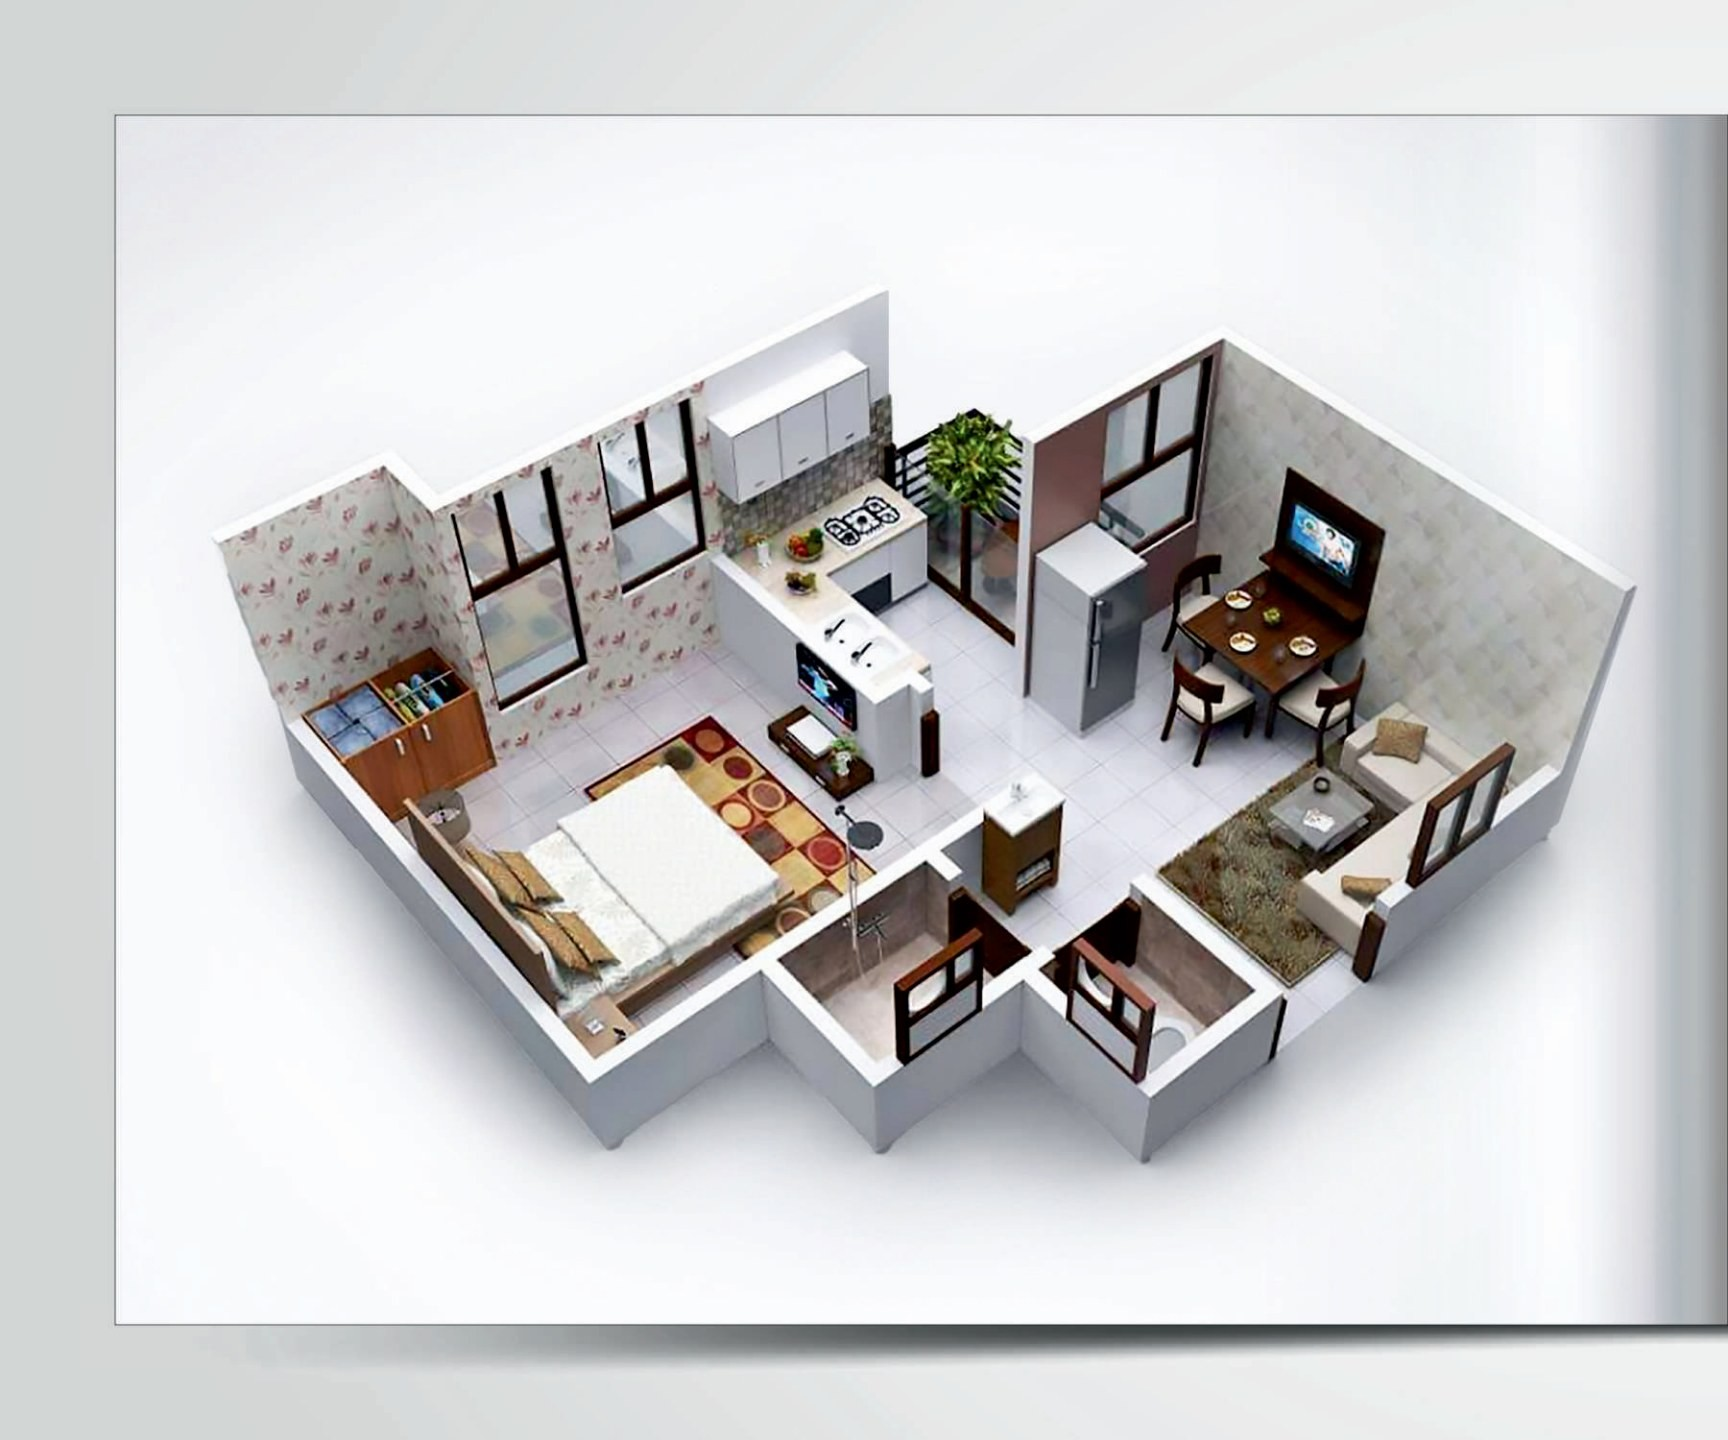
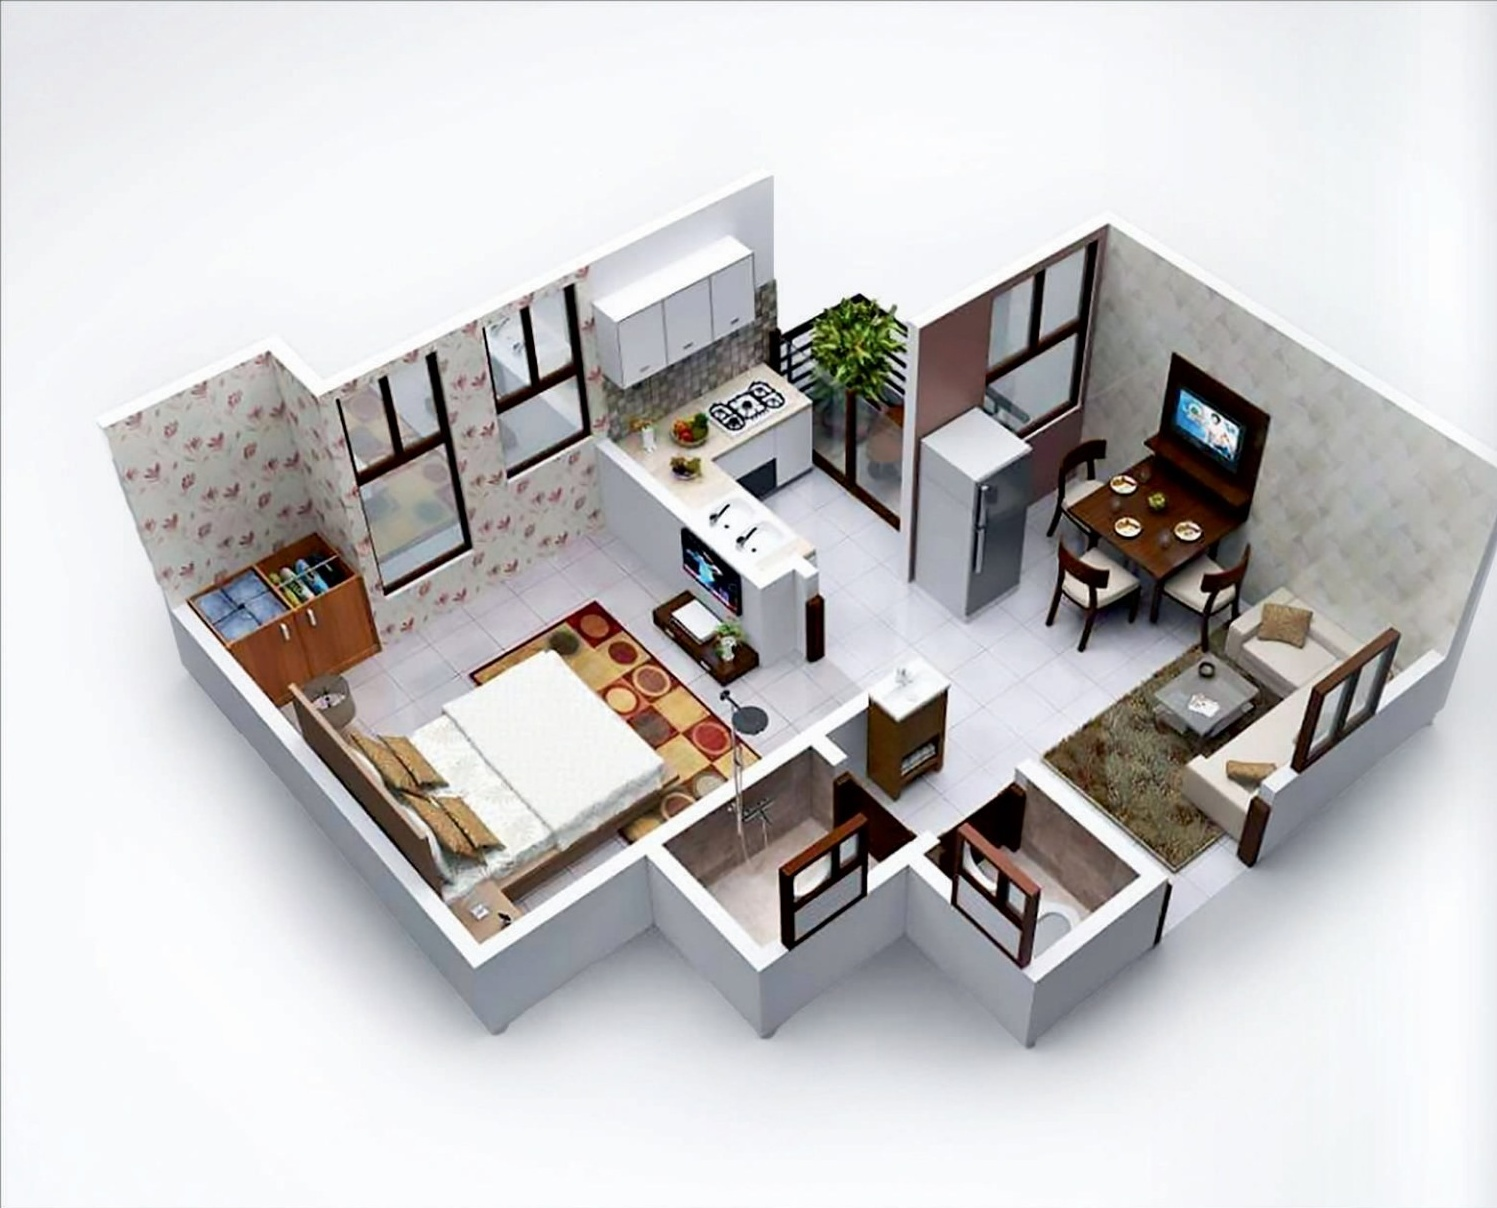
Optimize unit plans layout: normal compact size, clean white background, balanced side-by-side grid, and cropped floor plan artwork

diff --git a/src/pages/FloorPlans.tsx b/src/pages/FloorPlans.tsx
@@ -604,48 +604,48 @@ export const FloorPlans: React.FC = () => {
       </section>
 
       {/* Detailed Unit Plans: 3D Isometric + 2D Floor Plans from Brochure */}
-      <section className="py-14 sm:py-20 bg-white border-b border-[#CCE2D2]">
+      <section className="py-10 sm:py-14 bg-white border-b border-[#CCE2D2]">
         <div className="max-w-6xl mx-auto px-4 sm:px-6 lg:px-8">
-          <div className="text-center max-w-2xl mx-auto mb-12">
-            <span className="inline-flex items-center gap-1.5 px-3.5 py-1.5 rounded-full bg-emerald-100 text-emerald-800 text-xs font-bold uppercase tracking-wider border border-emerald-300 mb-2">
+          <div className="text-center max-w-2xl mx-auto mb-8 sm:mb-10">
+            <span className="inline-flex items-center gap-1.5 px-3 py-1 rounded-full bg-emerald-100 text-emerald-800 text-[11px] font-bold uppercase tracking-wider border border-emerald-300 mb-2">
               <Layers className="w-3.5 h-3.5" />
               <span>Brochure Verified Unit Plans</span>
             </span>
-            <h2 className="text-2xl sm:text-3xl md:text-4xl font-black text-[#8C6514] tracking-tight">
+            <h2 className="text-2xl sm:text-3xl font-black text-[#8C6514] tracking-tight">
               1, 2 &amp; 3 BHK Architectural Layouts
             </h2>
-            <p className="text-slate-600 text-sm mt-2">
-              Authentic unit plans extracted directly from the official DEEPPURA BUILDERS brochure, complete with 3D furnished isometric previews and exact 2D room measurements.
+            <p className="text-slate-600 text-xs sm:text-sm mt-1.5">
+              Official unit layouts with compact 3D furnished isometric previews and exact 2D measurements.
             </p>
           </div>
 
-          <div className="space-y-12">
+          <div className="space-y-6 sm:space-y-8">
             {officialBrochurePlans.map((plan, idx) => {
-              const spreadIndex = idx + 2; // spreads 3, 4, 5, 6, 7 (indices 2, 3, 4, 5, 6)
+              const spreadIndex = idx + 2; // spreads 3, 4, 5, 6, 7
               return (
                 <motion.div
                   key={plan.id}
-                  initial={{ opacity: 0, y: 30 }}
+                  initial={{ opacity: 0, y: 20 }}
                   whileInView={{ opacity: 1, y: 0 }}
                   viewport={{ once: true }}
-                  transition={{ duration: 0.5 }}
-                  className="rounded-2xl sm:rounded-3xl bg-slate-50 border border-[#CCE2D2] hover:border-emerald-500/80 overflow-hidden shadow-md hover:shadow-xl transition-all duration-300 p-5 sm:p-7 md:p-8"
+                  transition={{ duration: 0.4 }}
+                  className="rounded-2xl bg-white border border-[#CCE2D2] hover:border-emerald-500/80 shadow-xs hover:shadow-md transition-all duration-300 p-4 sm:p-5 md:p-6"
                 >
                   {/* Plan Header */}
-                  <div className="flex flex-col sm:flex-row sm:items-center justify-between gap-3 pb-5 border-b border-[#CCE2D2]">
+                  <div className="flex flex-col sm:flex-row sm:items-center justify-between gap-2.5 pb-3 sm:pb-4 border-b border-[#CCE2D2]">
                     <div>
                       <div className="flex items-center gap-2 mb-1">
-                        <span className="px-3 py-1 rounded-full bg-emerald-600 text-white text-xs font-black uppercase tracking-wider">
+                        <span className="px-2.5 py-0.5 rounded-full bg-emerald-700 text-white text-[11px] font-black uppercase tracking-wider">
                           {plan.category}
                         </span>
-                        <span className="px-3 py-1 rounded-full bg-slate-200 text-slate-800 text-xs font-bold">
+                        <span className="px-2.5 py-0.5 rounded-full bg-slate-100 text-slate-800 text-[11px] font-bold border border-slate-200">
                           {plan.area}
                         </span>
                       </div>
-                      <h3 className="text-xl sm:text-2xl font-black text-[#8C6514]">
+                      <h3 className="text-lg sm:text-xl font-black text-[#8C6514]">
                         {plan.name}
                       </h3>
-                      <p className="text-xs sm:text-sm text-slate-600 mt-1 max-w-2xl">
+                      <p className="text-xs text-slate-600 mt-0.5 max-w-2xl">
                         {plan.description}
                       </p>
                     </div>
@@ -653,85 +653,85 @@ export const FloorPlans: React.FC = () => {
                     <div className="flex items-center gap-2 shrink-0">
                       <button
                         onClick={() => openBrochureAt(spreadIndex)}
-                        className="px-4 py-2 rounded-xl bg-white hover:bg-emerald-50 text-amber-800 border border-emerald-300 font-bold text-xs flex items-center gap-1.5 transition-all cursor-pointer shadow-xs"
+                        className="px-3.5 py-1.5 rounded-xl bg-slate-50 hover:bg-emerald-50 text-amber-800 border border-emerald-300 font-bold text-xs flex items-center gap-1.5 transition-all cursor-pointer shadow-2xs"
                       >
                         <BookOpen className="w-3.5 h-3.5" />
-                        <span>View Brochure Spread {spreadIndex + 1}</span>
+                        <span>Spread {spreadIndex + 1}</span>
                       </button>
                     </div>
                   </div>
 
-                  {/* Dual Grid: 3D Isometric View + 2D Blueprint */}
-                  <div className="grid grid-cols-1 lg:grid-cols-2 gap-6 pt-6">
-                    {/* Left: 3D Isometric Cutaway */}
-                    <div className="rounded-2xl bg-white border border-[#CCE2D2] overflow-hidden shadow-xs group">
-                      <div className="p-3 bg-slate-100/70 border-b border-[#CCE2D2] flex items-center justify-between">
+                  {/* Dual Grid: Normal Balanced 3D Isometric View + 2D Blueprint */}
+                  <div className="grid grid-cols-1 md:grid-cols-2 gap-4 pt-4">
+                    {/* Left: 3D Isometric View */}
+                    <div className="rounded-xl bg-slate-50/60 border border-[#CCE2D2] overflow-hidden group">
+                      <div className="px-3 py-1.5 bg-slate-100/70 border-b border-[#CCE2D2] flex items-center justify-between">
                         <span className="text-[11px] font-black uppercase tracking-wider text-emerald-800 flex items-center gap-1.5">
                           <Layers className="w-3.5 h-3.5 text-sky-600" />
                           <span>3D Furnished Isometric View</span>
                         </span>
                         <button
                           onClick={() => openLightbox(8 + idx)}
-                          className="text-[11px] font-bold text-slate-500 hover:text-amber-800 flex items-center gap-1 cursor-pointer"
+                          className="text-[10px] font-bold text-slate-500 hover:text-amber-800 flex items-center gap-1 cursor-pointer"
                         >
                           <Maximize2 className="w-3 h-3" />
                           <span>Expand</span>
                         </button>
                       </div>
                       <div 
-                        className="aspect-[4/3] p-4 bg-slate-950 flex items-center justify-center cursor-pointer overflow-hidden"
+                        className="h-48 sm:h-56 md:h-60 p-2 sm:p-3 bg-white flex items-center justify-center cursor-pointer overflow-hidden"
                         onClick={() => openLightbox(8 + idx)}
                       >
                         <img
                           src={plan.isoImage}
                           alt={`${plan.name} 3D Isometric Layout`}
-                          className="max-h-full max-w-full object-contain group-hover:scale-105 transition-transform duration-500 rounded-lg"
+                          className="max-h-full max-w-full object-contain group-hover:scale-103 transition-transform duration-300 rounded"
                           loading="lazy"
                         />
                       </div>
                     </div>
 
                     {/* Right: 2D Blueprint Layout */}
-                    <div className="rounded-2xl bg-white border border-[#CCE2D2] overflow-hidden shadow-xs group flex flex-col justify-between">
-                      <div className="p-3 bg-slate-100/70 border-b border-[#CCE2D2] flex items-center justify-between">
+                    <div className="rounded-xl bg-slate-50/60 border border-[#CCE2D2] overflow-hidden group">
+                      <div className="px-3 py-1.5 bg-slate-100/70 border-b border-[#CCE2D2] flex items-center justify-between">
                         <span className="text-[11px] font-black uppercase tracking-wider text-slate-800 flex items-center gap-1.5">
                           <FileText className="w-3.5 h-3.5 text-sky-600" />
                           <span>2D Architectural Layout &amp; Measurements</span>
                         </span>
                         <button
                           onClick={() => openLightbox(8 + officialBrochurePlans.length + idx)}
-                          className="text-[11px] font-bold text-slate-500 hover:text-amber-800 flex items-center gap-1 cursor-pointer"
+                          className="text-[10px] font-bold text-slate-500 hover:text-amber-800 flex items-center gap-1 cursor-pointer"
                         >
                           <Maximize2 className="w-3 h-3" />
                           <span>Expand</span>
                         </button>
                       </div>
                       <div 
-                        className="aspect-[4/3] p-4 bg-white flex items-center justify-center cursor-pointer overflow-hidden"
+                        className="h-48 sm:h-56 md:h-60 p-2 sm:p-3 bg-white flex items-center justify-center cursor-pointer overflow-hidden"
                         onClick={() => openLightbox(8 + officialBrochurePlans.length + idx)}
                       >
                         <img
                           src={plan.blueprintImage}
                           alt={`${plan.name} 2D Blueprint`}
-                          className="max-h-full max-w-full object-contain group-hover:scale-105 transition-transform duration-500 rounded-lg"
+                          className="max-h-full max-w-full object-contain group-hover:scale-103 transition-transform duration-300 rounded"
                           loading="lazy"
                         />
                       </div>
+                    </div>
+                  </div>
 
-                      {/* Specs bullets */}
-                      <div className="p-4 bg-slate-50/70 border-t border-[#CCE2D2] space-y-1.5">
-                        <span className="text-[10px] font-black uppercase tracking-widest text-slate-400 block mb-1">
-                          Key Dimension Specifications:
-                        </span>
-                        <div className="grid grid-cols-1 sm:grid-cols-2 gap-1.5">
-                          {plan.specs.map((spec, sIdx) => (
-                            <div key={sIdx} className="text-xs text-slate-700 flex items-center gap-1.5">
-                              <CheckCircle2 className="w-3.5 h-3.5 text-sky-600 shrink-0" />
-                              <span>{spec}</span>
-                            </div>
-                          ))}
+                  {/* Clean Dimension Specifications Footer Across Both Images */}
+                  <div className="mt-3.5 p-3 rounded-xl bg-slate-50 border border-[#CCE2D2] flex flex-col md:flex-row md:items-center justify-between gap-2">
+                    <span className="text-[10px] font-black uppercase tracking-wider text-slate-500 shrink-0">
+                      Key Dimension Specifications:
+                    </span>
+                    <div className="flex flex-wrap items-center gap-x-4 gap-y-1 text-xs text-slate-700">
+                      {plan.specs.map((spec, sIdx) => (
+                        <div key={sIdx} className="inline-flex items-center gap-1.5">
+                          <CheckCircle2 className="w-3 h-3 text-sky-600 shrink-0" />
+                          <span>{spec}</span>
                         </div>
-                      </div>
+                      ))}
                     </div>
                   </div>
                 </motion.div>

diff --git a/src/utils/pageFlipSound.ts b/src/utils/pageFlipSound.ts
@@ -49,3 +49,4 @@ export const playPageTurnSound = () => {
     // If audio is blocked by user browser policy, fail silently
   }
 };
+

diff --git a/src/data/brochureData.ts b/src/data/brochureData.ts
@@ -149,3 +149,4 @@ export const brochureSpreads: BrochureSpread[] = [
     ]
   }
 ];
+
